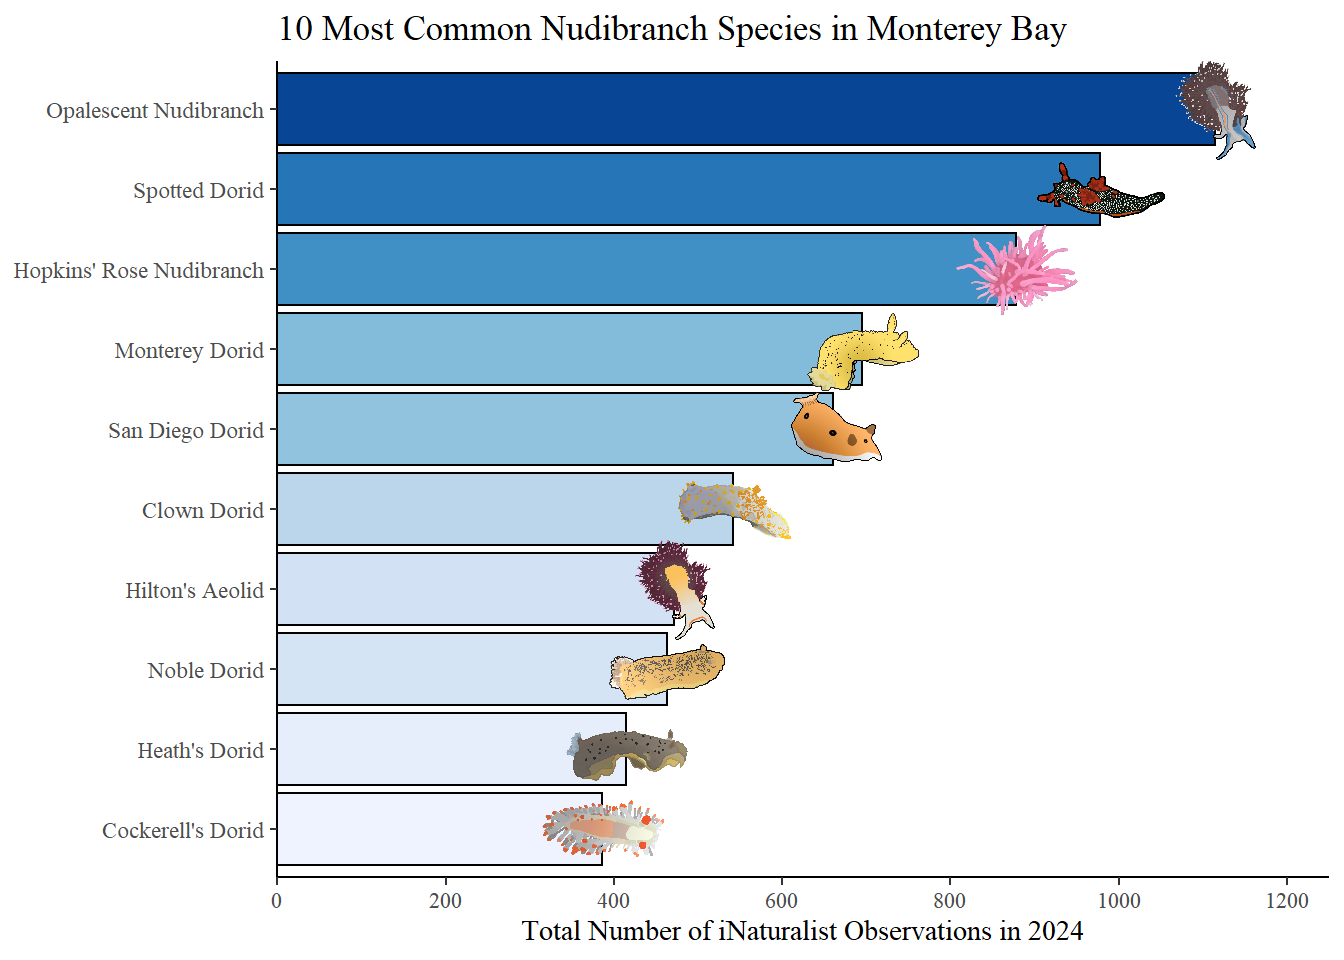
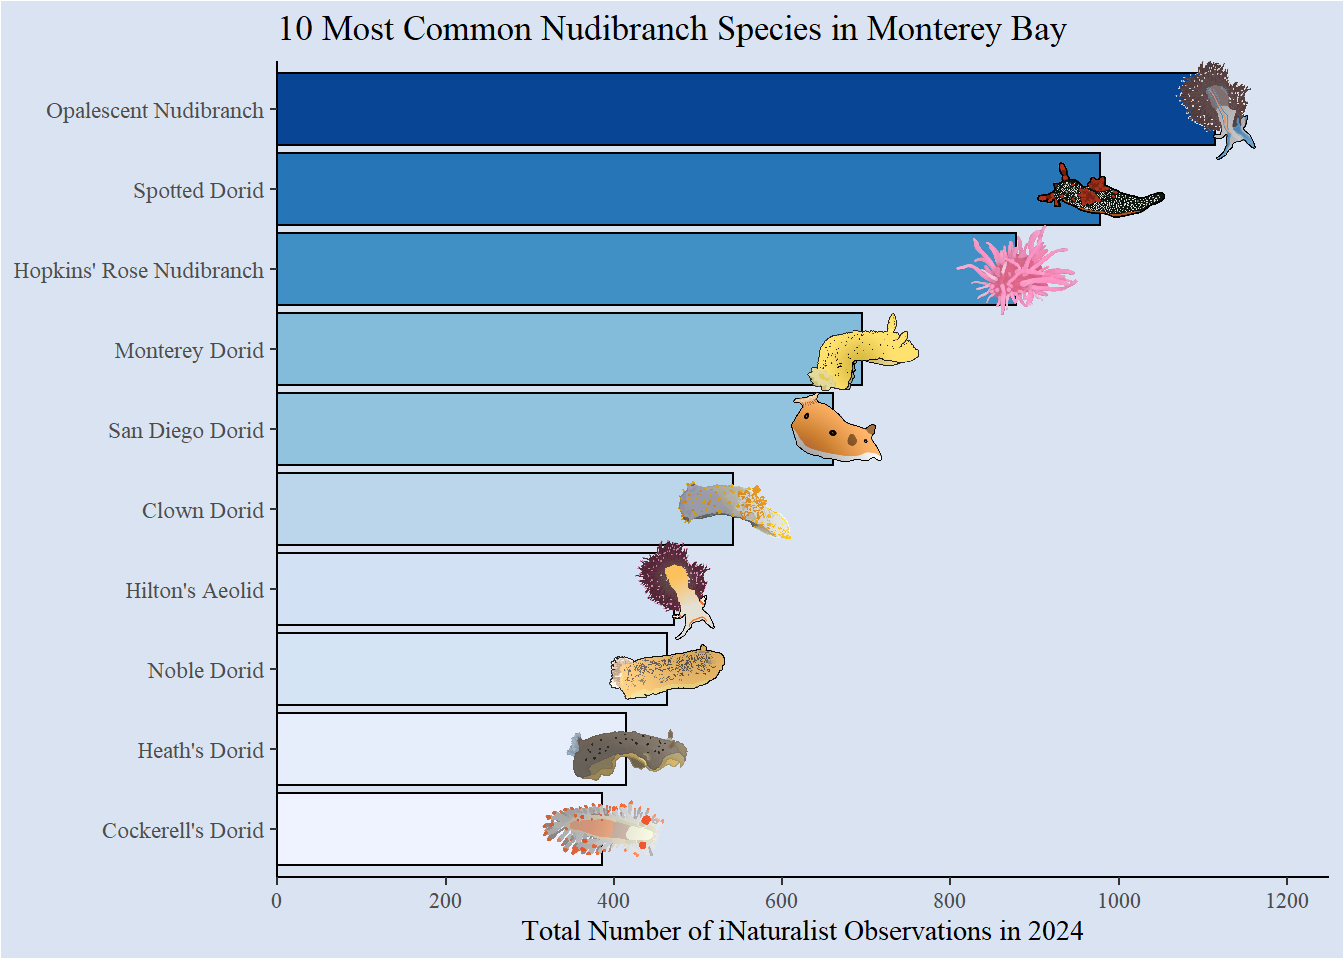
Changed bg color of plots to fit website better

diff --git a/docs/Portfolio_Project.html b/docs/Portfolio_Project.html
@@ -118,6 +118,7 @@ ul.task-list li input[type="checkbox"] {
   <li><a href="#data-visualization-1" id="toc-data-visualization-1" class="nav-link" data-scroll-target="#data-visualization-1">Data Visualization 1</a></li>
   <li><a href="#data-visualization-2" id="toc-data-visualization-2" class="nav-link" data-scroll-target="#data-visualization-2">Data Visualization 2</a></li>
   <li><a href="#data-visualization-3" id="toc-data-visualization-3" class="nav-link" data-scroll-target="#data-visualization-3">Data Visualization 3</a></li>
+  <li><a href="#citations" id="toc-citations" class="nav-link" data-scroll-target="#citations">Citations</a></li>
   </ul>
 </nav>
     </div>
@@ -162,18 +163,13 @@ ul.task-list li input[type="checkbox"] {
 </section>
 <section id="data-cleaning" class="level1">
 <h1>Data Cleaning</h1>
-<p>There is also some missing data in the common_name variable coded as blanks, as some species of nudibranchs do not have a common name in iNaturalist.</p>
-<p>Based on my goal, I will not need to filter my data nor join my data with any preexisting datasets.</p>
-<p>For my first visualization, I will have to create a new variable in order to include images in my bar graph.</p>
-<p>There are a few variables I will want to exclude from my dataset including the observation id variables and many of the taxon designation variables that are entirely NAs, such as taxon_tribe_name and taxon_hybrid_name.</p>
-<p>I will not need to pivot my data.</p>
-<p>As stated in the Data Visualization section, I will have to summarize my data into total number of observations for each species in order to create some of my visualizations.</p>
-<p>One other aspect I am going to want to fix has to do with the common_name variable, as I want to refer to most species of nudibranch by their common name; however, a few species of nudibranch do not have a common name. Thus, I want to find a way to set their common name to be the same as their scientific name or create an entirely new name variable that can use their scientific name in place of the common name.</p>
-<p>The code to add an image file on lines 76-77 were modeled using a tutorial from Dean Chereden on YouTube. CSE Citation:<br>
-Dean Chereden. Add IMAGES to Charts in RStudio [video]. Youtube. 2023 Apr 27, 8:16 minutes. [accessed 2025 May 1]. https://www.youtube.com/watch?app=desktop&amp;v=Mt-lVqqZCVw.</p>
+<p>In order to create my first visualization, I needed to first create a new dataset from the original nudibranch dataset. Because a few species of nudibranch do not have a common name, I needed to use the coalesce() function to replace any common names that were marked as NA with the nudibranch’s scientific name. This allows us to separate these nudibranchs into distinct species instead of accidentally lumping them all together. I then summarized the total number of observations for each species of nudibranch, giving us the total observation count for each distinct species. Finally, using a piece of code modeled after a tutorial from Dean Chereden on YouTube, I added photos to each of the ten most common species of nudibranch to be used in the first visualization.</p>
+<p>To create my second visualization, in order to create a dendrogram of all the species of nudibranchs, I needed to create a dataset with each of the individual nodes and their origins. To accomplish this, I created 5 datasets where common name, genus, family, superfamily, and suborder each served as nodes and combined them into one dataset using rbind(). I then used this dataset to form a graph object to be used in my dendrogram.</p>
+<p>For my final visualization, much like my first, I used the the coalesce() function to replace any common names that were marked as NA. I then used a mutate() function to extract the month from the date variable.</p>
 </section>
 <section id="data-visualization-1" class="level1">
 <h1>Data Visualization 1</h1>
+<p>The first visualization is a bar chart of the 10 species with the highest number of observations. The visualization clearly shows readers which species have the highest and lowest number of observations by placing the barsin order of size. Not to mention, drawings of each of the nudibranchs were included in order help the readers connect with the data further by allowing them to see what each of these species look like. As shown in the graph, the most common species of nudibranch in the Monterey Bay is the opalescent nudibranch, followed by the spotted dorid, Hopkin’s rose, Monterey dorid, San Diego dorid, clown dorid, Hilton’s aeolid, noble dorid, Heath’s dorid, and Cockerell’s dorid.</p>
 <div class="cell">
 <div class="cell-output-display">
 <div>
@@ -183,11 +179,11 @@ Dean Chereden. Add IMAGES to Charts in RStudio [video]. Youtube. 2023 Apr 27, 8:
 </div>
 </div>
 </div>
-<p>The code to add an image file on lines 101-102 were modeled using a tutorial from Dean Chereden on YouTube. CSE Citation:<br>
-Dean Chereden. Add IMAGES to Charts in RStudio [video]. Youtube. 2023 Apr 27, 8:16 minutes. [accessed 2025 May 1]. https://www.youtube.com/watch?app=desktop&amp;v=Mt-lVqqZCVw.</p>
+<p>Barplot of nudibranch observations</p>
 </section>
 <section id="data-visualization-2" class="level1">
 <h1>Data Visualization 2</h1>
+<p>The second visualization shows a dendrogram off all of the species of nudibranch found in the Monterey Bay area. It allows readers to observe the biodiversity of nudibranch species, genera, families, superfamilies, and suborders by showing them as nodes or points of divergence. The visualization shows readers each of the 75 species of nudibranch observed in the Monterey Bay area in 2024, along with the 47 unique genera, 31 unique families, 11 unique superfamilies, and 2 unique suborders of nudibranch in Monterey Bay along with how each one relates to each other. This specific dendrogram’s code was modeled off of a tutorial on the R Graph Gallery.</p>
 <div class="cell">
 <div class="cell-output-display">
 <div>
@@ -197,11 +193,11 @@ Dean Chereden. Add IMAGES to Charts in RStudio [video]. Youtube. 2023 Apr 27, 8:
 </div>
 </div>
 </div>
-<p>The code in the above 2 code chunks to create the dendrogram was modeled from a tutorial from the R Graph Gallery. CSE Citation:<br>
-Yan Holtz. c2016-2018. Dendrogram [Internet]. The R Graph Gallery. [updated 2025; cited 2025 May 15]. Available from: https://r-graph-gallery.com/dendrogram.html.</p>
+<p>Dendrogram of nudibranchs in the Monterey Bay</p>
 </section>
 <section id="data-visualization-3" class="level1">
 <h1>Data Visualization 3</h1>
+<p>The final visualization is a ridgeline plot of nudibranch observations over each of the 12 months by species. This helps readers notice the seasonal trends of nudibranch populations, generally reaching their peak around May, June, or July, and reaching a lull from August to April (with some exceptions, of course). Readers may also identify a potential peak around October to December for some species in particular.</p>
 <div class="cell">
 <div class="cell-output cell-output-stderr">
 <pre><code>Warning in geom_density_ridges(trim = TRUE, scale = 5): Ignoring unknown
@@ -218,6 +214,12 @@ parameters: `trim`</code></pre>
 </div>
 </div>
 </div>
+<p>Ridgeline plot of nudibranch populations by month</p>
+</section>
+<section id="citations" class="level1">
+<h1>Citations</h1>
+<p>Dean Chereden. Add IMAGES to Charts in RStudio [video]. Youtube. 2023 Apr 27, 8:16 minutes. [accessed 2025 May 1]. https://www.youtube.com/watch?app=desktop&amp;v=Mt-lVqqZCVw.</p>
+<p>Yan Holtz. c2016-2018. Dendrogram [Internet]. The R Graph Gallery. [updated 2025; cited 2025 May 15]. Available from: <a href="https://r-graph-gallery.com/dendrogram.html." class="uri">https://r-graph-gallery.com/dendrogram.html.</a></p>
 
 
 </section>
